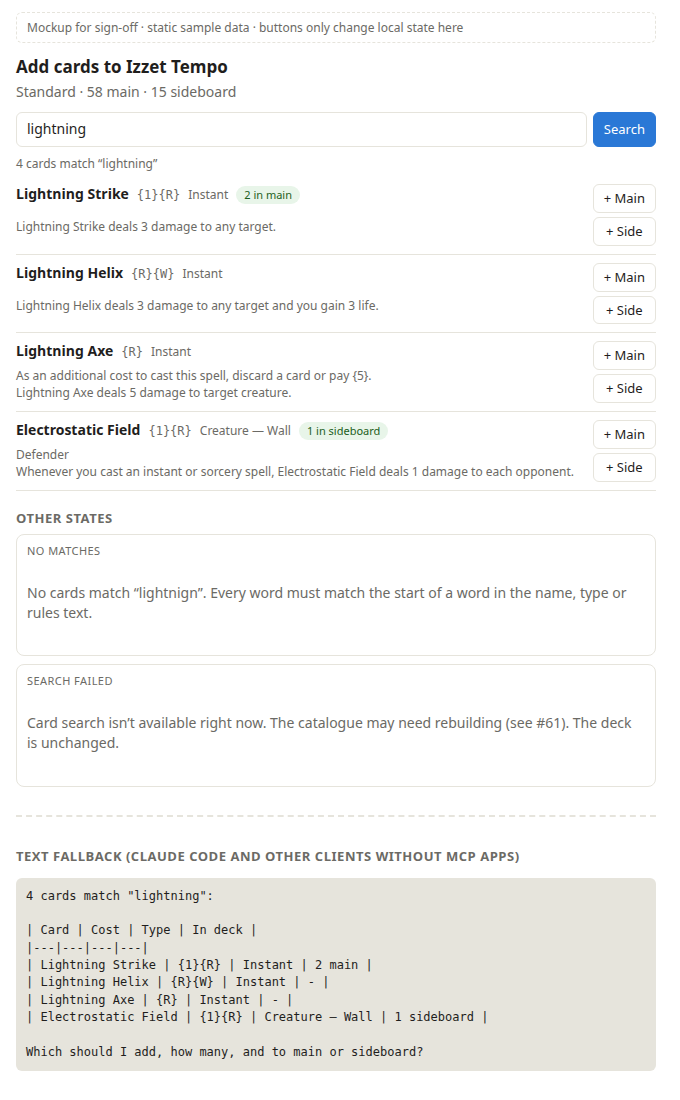
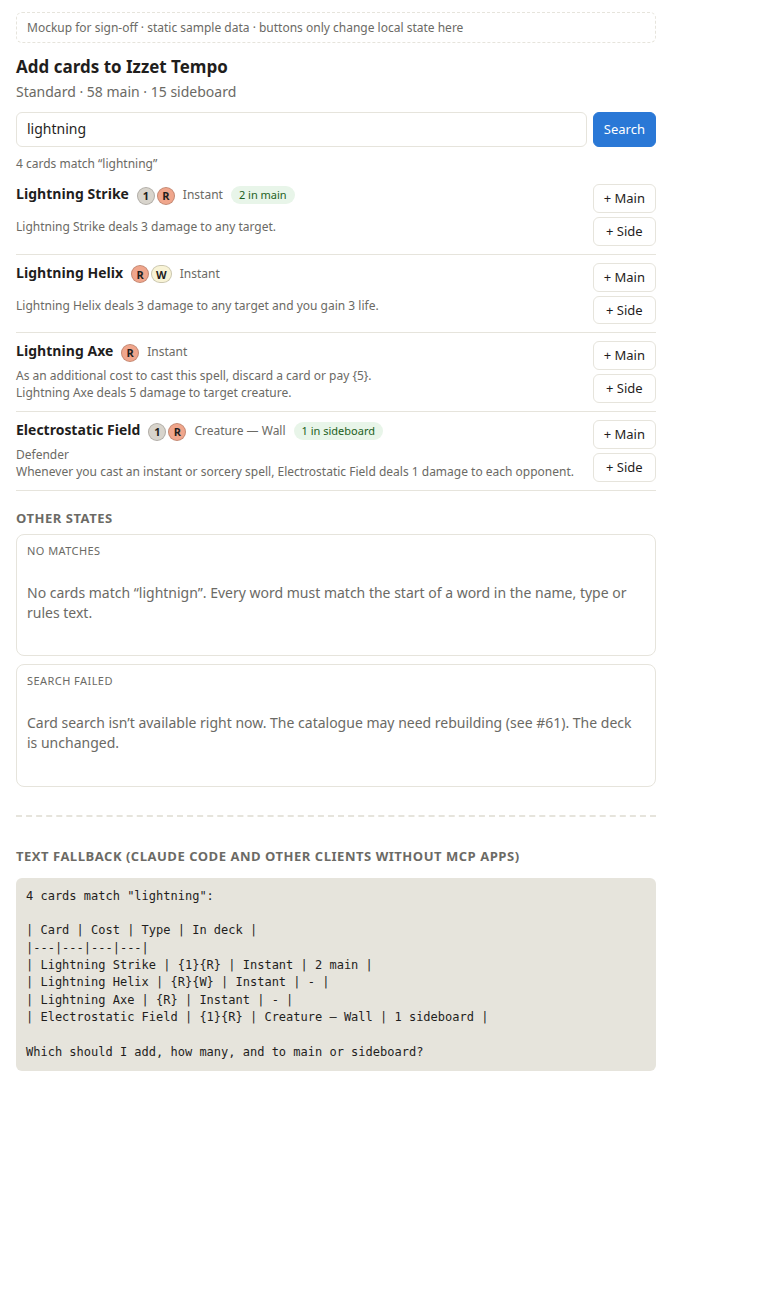
Show mana costs as symbol pills
One pill per {...} symbol, coloured by mana colour; hybrids split
diagonally. Used in the web deck table and card search (ManaCost
component), the deck_show view (ui/deck_table.html) and the card details
and card search mockups. Card details mockup gains hybrid and Phyrexian
samples.

diff --git a/ui/mockups/card_details.html b/ui/mockups/card_details.html
@@ -83,6 +83,13 @@
     :root { --cols: 14px 2em 1fr 6em 3.5em; }
     .type, .colhead span:nth-child(5) { display: none; }
   }
+  /* Mana symbol pills (same as mana_cost.css in the web app). */
+  :root { --mana-w: #f8f3d6; --mana-u: #b4d7f0; --mana-b: #c8c1bd; --mana-r: #f0a68c; --mana-g: #9fd0ae; --mana-c: #d8d4cc; }
+  .mc-cost { display: inline-flex; flex-wrap: wrap; gap: 2px; align-items: center; vertical-align: middle; }
+  .mc-sym { display: inline-flex; align-items: center; justify-content: center; min-width: 18px; height: 18px;
+    padding: 0 4px; box-sizing: border-box; border-radius: 999px; border: 1px solid rgba(0, 0, 0, .18);
+    color: #1f1e1d; font: 600 11px/1 var(--font-sans, system-ui, sans-serif); font-variant-numeric: tabular-nums; }
+  .mc-sep { color: var(--muted); font-size: 11px; margin: 0 2px; }
 </style>
 </head>
 <body>
@@ -121,17 +128,35 @@ const CARDS = [
     faces: [{ text: "({T}: Add {U}.)" }], keywords: [], oracle_tags: [], deck: { roles: ["land"], reason: "", locked: false } },
   { zone: "sideboard", count: 2, name: "Negate", mana_cost: "{1}{U}", type_line: "Instant",
     faces: [{ text: "Counter target noncreature spell." }], keywords: [], oracle_tags: ["counterspell-noncreature"],
-    deck: { roles: ["counter"], reason: "against control", locked: false } }
+    deck: { roles: ["counter"], reason: "against control", locked: false } },
+  { zone: "sideboard", count: 2, name: "Kitchen Finks", mana_cost: "{1}{G/W}{G/W}", type_line: "Creature — Ouphe", pt: "3/2",
+    faces: [{ text: "When this creature enters, you gain 2 life.\nPersist (When this creature dies, if it had no -1/-1 counters on it, return it to the battlefield under its owner's control with a -1/-1 counter on it.)" }],
+    keywords: ["Persist"], oracle_tags: ["lifegain"], deck: { roles: [], reason: "hybrid cost sample", locked: false } },
+  { zone: "sideboard", count: 1, name: "Gut Shot", mana_cost: "{R/P}", type_line: "Instant",
+    faces: [{ text: "({R/P} can be paid with either {R} or 2 life.)\nGut Shot deals 1 damage to any target." }],
+    keywords: [], oracle_tags: ["burn-any"], deck: { roles: [], reason: "Phyrexian cost sample", locked: false } }
 ];
 
 const esc = (s) => String(s ?? "").replace(/[&<>"']/g, (c) =>
   ({ "&": "&amp;", "<": "&lt;", ">": "&gt;", '"': "&quot;", "'": "&#39;" })[c]);
 const NEW = `<span class="new">NEW</span>`;
 
+  // "{1}{R} // {U}" -> symbol pills; hybrids like {W/U} are split diagonally.
+  const manaColour = (p) => "WUBRG".includes(p) && p.length === 1 ? `var(--mana-${p.toLowerCase()})` : "var(--mana-c)";
+  function manaPills(cost) {
+    if (!cost) return "";
+    const faces = String(cost).split("//").map((face) => (face.match(/\{[^}]+\}/g) || []).map((m) => {
+      const sym = m.slice(1, -1), parts = sym.split("/").filter((p) => p !== "P");
+      const bg = parts.length > 1 ? `linear-gradient(135deg, ${manaColour(parts[0])} 50%, ${manaColour(parts[1])} 50%)` : manaColour(parts[0] || sym);
+      return `<span class="mc-sym" style="background:${bg}">${esc(sym)}</span>`;
+    }).join(""));
+    return `<span class="mc-cost" role="img" aria-label="Mana cost ${esc(cost)}">${faces.join('<span class="mc-sep">//</span>')}</span>`;
+  }
+
 function body(c) {
   const faces = c.faces.map((f) => `
     <div class="face">
-      ${f.name ? `<h3>${esc(f.name)} <span class="ft">${esc(f.cost)} · ${esc(f.type)}</span></h3>` : ""}
+      ${f.name ? `<h3>${esc(f.name)} <span class="ft">${manaPills(f.cost)} · ${esc(f.type)}</span></h3>` : ""}
       <p class="rules">${esc(f.text)}</p>
       ${f.stats ? `<span class="stats" title="Power/toughness">${esc(f.stats)}</span>` : ""}
     </div>`).join("");
@@ -158,7 +183,7 @@ function zone(title, key) {
       <span><button data-all="open" data-zone="${key}">Expand all</button><button data-all="close" data-zone="${key}">Collapse all</button></span></div>
     <div class="colhead"><span></span><span>#</span><span>Card</span><span>Cost</span><span>Type</span><span>P/T ${NEW}</span></div>
     <ul class="cards" data-zone="${key}">${rows.map((c) => `<li class="card"><details${c.open ? " open" : ""}>
-      <summary><span class="n">${c.count}</span><span class="name">${esc(c.name)}</span><span class="cost">${esc(c.mana_cost)}</span><span class="type">${esc(c.type_line)}</span><span class="pt">${esc(c.pt || "")}</span></summary>
+      <summary><span class="n">${c.count}</span><span class="name">${esc(c.name)}</span><span class="cost">${manaPills(c.mana_cost)}</span><span class="type">${esc(c.type_line)}</span><span class="pt">${esc(c.pt || "")}</span></summary>
       ${body(c)}</details></li>`).join("")}</ul>`;
 }
 

diff --git a/ui/mockups/card_search.html b/ui/mockups/card_search.html
@@ -57,6 +57,13 @@
   .fallback pre { white-space: pre-wrap; background: var(--line); padding: 10px; border-radius: 6px;
     font: 12px/1.45 var(--font-mono, ui-monospace, monospace); }
   @media (max-width: 420px) { .hit .actions { flex-direction: row; grid-row: auto; grid-column: 1 / -1; } li.hit { grid-template-columns: 1fr; } }
+  /* Mana symbol pills (same as mana_cost.css in the web app). */
+  :root { --mana-w: #f8f3d6; --mana-u: #b4d7f0; --mana-b: #c8c1bd; --mana-r: #f0a68c; --mana-g: #9fd0ae; --mana-c: #d8d4cc; }
+  .mc-cost { display: inline-flex; flex-wrap: wrap; gap: 2px; align-items: center; vertical-align: middle; }
+  .mc-sym { display: inline-flex; align-items: center; justify-content: center; min-width: 18px; height: 18px;
+    padding: 0 4px; box-sizing: border-box; border-radius: 999px; border: 1px solid rgba(0, 0, 0, .18);
+    color: #1f1e1d; font: 600 11px/1 var(--font-sans, system-ui, sans-serif); font-variant-numeric: tabular-nums; }
+  .mc-sep { color: var(--muted); font-size: 11px; margin: 0 2px; }
 </style>
 </head>
 <body>
@@ -104,6 +111,18 @@ const HITS = [
 const esc = (s) => String(s ?? "").replace(/[&<>"']/g, (c) =>
   ({ "&": "&amp;", "<": "&lt;", ">": "&gt;", '"': "&quot;", "'": "&#39;" })[c]);
 
+  // "{1}{R} // {U}" -> symbol pills; hybrids like {W/U} are split diagonally.
+  const manaColour = (p) => "WUBRG".includes(p) && p.length === 1 ? `var(--mana-${p.toLowerCase()})` : "var(--mana-c)";
+  function manaPills(cost) {
+    if (!cost) return "";
+    const faces = String(cost).split("//").map((face) => (face.match(/\{[^}]+\}/g) || []).map((m) => {
+      const sym = m.slice(1, -1), parts = sym.split("/").filter((p) => p !== "P");
+      const bg = parts.length > 1 ? `linear-gradient(135deg, ${manaColour(parts[0])} 50%, ${manaColour(parts[1])} 50%)` : manaColour(parts[0] || sym);
+      return `<span class="mc-sym" style="background:${bg}">${esc(sym)}</span>`;
+    }).join(""));
+    return `<span class="mc-cost" role="img" aria-label="Mana cost ${esc(cost)}">${faces.join('<span class="mc-sep">//</span>')}</span>`;
+  }
+
 function meta() {
   document.getElementById("deckmeta").textContent =
     `${DECK.format} · ${DECK.main_total} main · ${DECK.sideboard_total} sideboard`;
@@ -115,7 +134,7 @@ function renderHits() {
     const held = Object.entries(h.in_deck).filter(([, n]) => n)
       .map(([z, n]) => `<span class="in-deck">${n} in ${z}</span>`).join(" ");
     return `<li class="hit">
-      <div class="title"><span class="name">${esc(h.name)}</span><span class="cost">${esc(h.mana_cost)}</span><span class="type">${esc(h.type_line)}</span>${held}</div>
+      <div class="title"><span class="name">${esc(h.name)}</span><span class="cost">${manaPills(h.mana_cost)}</span><span class="type">${esc(h.type_line)}</span>${held}</div>
       <div class="text">${esc(h.text)}</div>
       <div class="actions">
         <button data-id="${h.oracle_id}" data-zone="main" aria-label="Add ${esc(h.name)} to main deck">+ Main</button>

diff --git a/ui/deck_table.html b/ui/deck_table.html
@@ -53,6 +53,13 @@
     display: inline-block; padding: 1px 8px; border-radius: 999px;
     background: var(--line); color: var(--muted); font-size: 11px; white-space: nowrap;
   }
+  /* Mana symbol pills (same as mana_cost.css in the web app). */
+  :root { --mana-w: #f8f3d6; --mana-u: #b4d7f0; --mana-b: #c8c1bd; --mana-r: #f0a68c; --mana-g: #9fd0ae; --mana-c: #d8d4cc; }
+  .mc-cost { display: inline-flex; flex-wrap: wrap; gap: 2px; align-items: center; vertical-align: middle; }
+  .mc-sym { display: inline-flex; align-items: center; justify-content: center; min-width: 18px; height: 18px;
+    padding: 0 4px; box-sizing: border-box; border-radius: 999px; border: 1px solid rgba(0, 0, 0, .18);
+    color: #1f1e1d; font: 600 11px/1 var(--font-sans, system-ui, sans-serif); font-variant-numeric: tabular-nums; }
+  .mc-sep { color: var(--muted); font-size: 11px; margin: 0 2px; }
 </style>
 </head>
 <body>
@@ -74,6 +81,18 @@
   const esc = (s) => String(s ?? "").replace(/[&<>"']/g, (c) =>
     ({ "&": "&amp;", "<": "&lt;", ">": "&gt;", '"': "&quot;", "'": "&#39;" })[c]);
 
+  // "{1}{R} // {U}" -> symbol pills; hybrids like {W/U} are split diagonally.
+  const manaColour = (p) => "WUBRG".includes(p) && p.length === 1 ? `var(--mana-${p.toLowerCase()})` : "var(--mana-c)";
+  function manaPills(cost) {
+    if (!cost) return "";
+    const faces = String(cost).split("//").map((face) => (face.match(/\{[^}]+\}/g) || []).map((m) => {
+      const sym = m.slice(1, -1), parts = sym.split("/").filter((p) => p !== "P");
+      const bg = parts.length > 1 ? `linear-gradient(135deg, ${manaColour(parts[0])} 50%, ${manaColour(parts[1])} 50%)` : manaColour(parts[0] || sym);
+      return `<span class="mc-sym" style="background:${bg}">${esc(sym)}</span>`;
+    }).join(""));
+    return `<span class="mc-cost" role="img" aria-label="Mana cost ${esc(cost)}">${faces.join('<span class="mc-sep">//</span>')}</span>`;
+  }
+
   function applyHost(ctx) {
     if (!ctx) return;
     const vars = ctx.styles && ctx.styles.variables;
@@ -89,7 +108,7 @@
       ${rows.map((r) => `<tr><td class="n">${r.count}</td><td class="card">${r.text
           ? `<details><summary>${esc(r.name)}</summary><div class="tip">${esc(r.text)}</div></details>`
           : esc(r.name)}</td>
-        <td class="cost">${esc(r.mana_cost)}</td><td class="type">${esc(r.type_line)}</td>
+        <td class="cost">${manaPills(r.mana_cost)}</td><td class="type">${esc(r.type_line)}</td>
         <td class="tags">${(r.oracle_tags || []).map((t) => `<span class="pill">${esc(t)}</span>`).join("")}</td></tr>`).join("")}
       </tbody></table>`;
   }

diff --git a/mana_cost.css b/mana_cost.css
@@ -1,0 +1,10 @@
+/* Mana symbol pills. Colours live in global.css (--mana-*). */
+
+.mc-cost { display: inline-flex; flex-wrap: wrap; gap: 2px; align-items: center; vertical-align: middle; }
+.mc-sym {
+  display: inline-flex; align-items: center; justify-content: center;
+  min-width: 18px; height: 18px; padding: 0 4px; box-sizing: border-box;
+  border-radius: 999px; border: 1px solid rgba(0, 0, 0, .18);
+  color: #1f1e1d; font: 600 11px/1 var(--font-sans); font-variant-numeric: tabular-nums;
+}
+.mc-sep { color: var(--muted); font-size: 11px; margin: 0 2px; }

diff --git a/global.css b/global.css
@@ -19,6 +19,13 @@
   --accent: light-dark(#2a78d6, #3987e5);
   --series-1: light-dark(#2a78d6, #3987e5);
   --series-2: light-dark(#eb6834, #d95926);
+  /* Mana symbol fills: light in both themes, with dark text, like printed symbols. */
+  --mana-w: #f8f3d6;
+  --mana-u: #b4d7f0;
+  --mana-b: #c8c1bd;
+  --mana-r: #f0a68c;
+  --mana-g: #9fd0ae;
+  --mana-c: #d8d4cc;
   --font-sans: system-ui, -apple-system, sans-serif;
   --font-mono: ui-monospace, SFMono-Regular, Menlo, monospace;
 }

diff --git a/README.md b/README.md
@@ -77,6 +77,7 @@ uv run pytest tests    # ingest, search, REST, legality and MCP tests
 - `deck_io.sv.jac` the `DeckExport`, `DeckImport` and `CreateDeckFromList` walkers
 - `export_panel.cl.jac` the per-deck Export panel (format, preview, copy, download)
 - `mana_panel.cl.jac`, `card_search.cl.jac` the deck page's mana and search sections
+- `mana_cost.cl.jac` mana costs as symbol pills (the MCP views draw the same)
 - `global.css` app-wide style tokens, shared with the MCP Apps views in `ui/`
 - `legality.sv.jac` `Format` nodes and the deck-construction rules
 - `mcp_server.jac` the MCP server (and the web app, in the same process)
